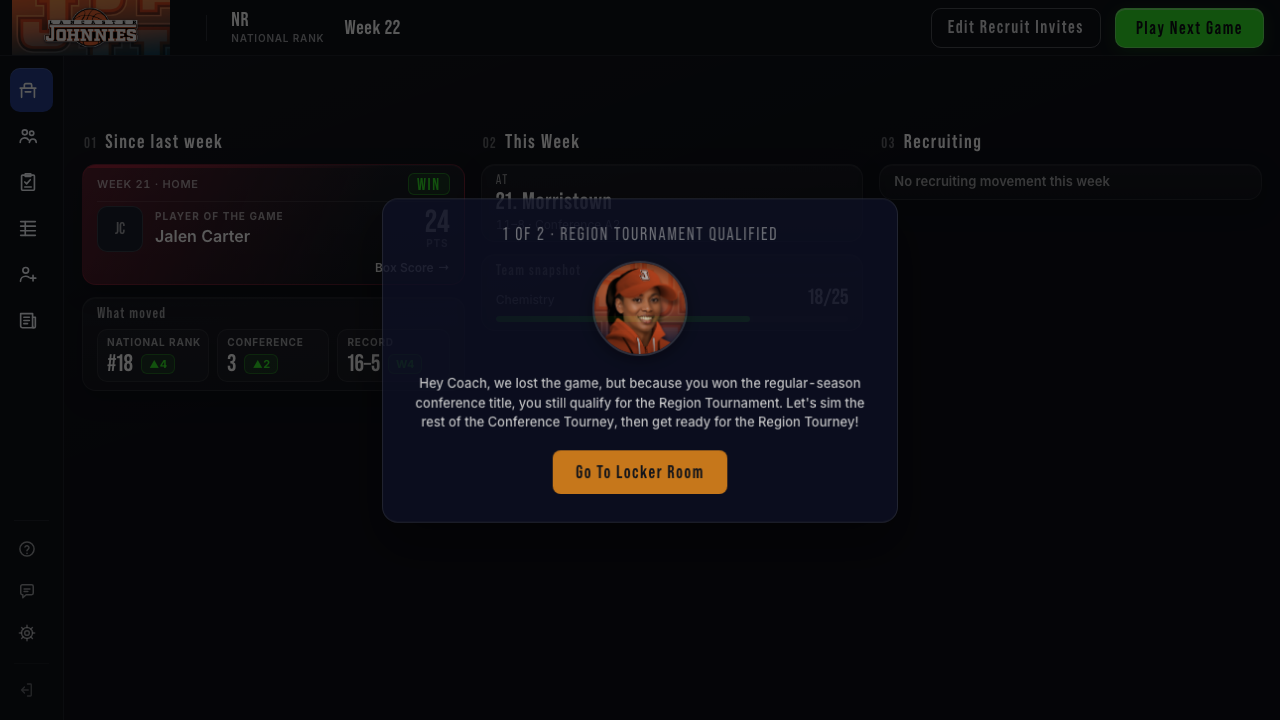
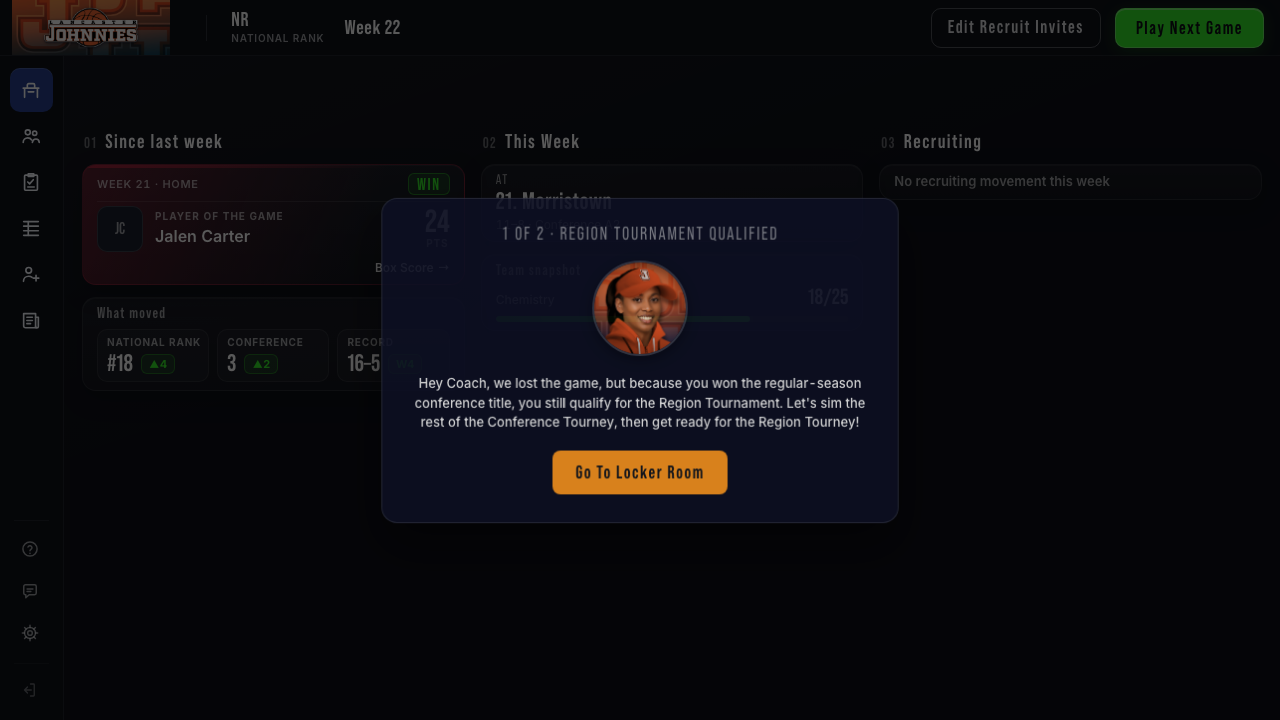
Stack weekly Office news as labeled rows and wait for the cut modal to finish fading in.
The weekly card no longer repeats This Week; each row is a full-width link. The cut screenshot is taken after the modal is fully opaque and on top.

diff --git a/tests/e2e/moment-queue.spec.js b/tests/e2e/moment-queue.spec.js
@@ -251,10 +251,33 @@ test('the weekly card shows a recruit visit and a bracket update', async ({ page
   await expect(card.getByText('Ellis Clemons is visiting this week.')).toBeVisible();
   await expect(card.getByText('Tournament update')).toBeVisible();
   await expect(card.getByText('The tournament bracket moved this week.')).toBeVisible();
-  await expect(card.locator('a.sn-row[href*="recruiting.html"]')).toHaveCount(1);
-  await expect(card.locator('a.sn-row[href*="tab=tournament-view"]')).toHaveCount(1);
+  await expect(card.locator('a.ow-row[href*="recruiting.html"]')).toHaveCount(1);
+  await expect(card.locator('a.ow-row[href*="tab=tournament-view"]')).toHaveCount(1);
+  await expect(card.locator('.card-h')).toHaveCount(0);
   await page.screenshot({ path: path.join(SHOTS, 'office-weekly-card.png') });
 });
+
+async function assertCutModalOnTop(page) {
+  await page.waitForFunction(() => {
+    const box = document.querySelector('.fcc-cut-required-modal .gob-modal-box');
+    return !!(box && parseFloat(getComputedStyle(box).opacity) === 1);
+  }, null, { timeout: 5000 });
+  const hits = await page.evaluate(() => {
+    function insideModal(el) {
+      const modal = document.querySelector('.fcc-cut-required-modal');
+      if (!el || !modal) return false;
+      const r = el.getBoundingClientRect();
+      const hit = document.elementFromPoint(r.left + r.width / 2, r.top + r.height / 2);
+      return !!(hit && modal.contains(hit));
+    }
+    return {
+      title: insideModal(document.getElementById('fcc-cut-required-title')),
+      button: insideModal(document.getElementById('fcc-cut-required-close')),
+    };
+  });
+  expect(hits.title, 'title centre should hit the cut modal').toBe(true);
+  expect(hits.button, 'button centre should hit the cut modal').toBe(true);
+}
 
 test('cut modal opens once after the pop-up closes', async ({ page }) => {
   await page.setViewportSize({ width: 1280, height: 720 });
@@ -264,6 +287,7 @@ test('cut modal opens once after the pop-up closes', async ({ page }) => {
   await dismissSammy(page);
   await expect(page.locator('.fcc-cut-required-modal.is-visible')).toHaveCount(1);
   await expect(page.locator('.sammy-modal-backdrop.open')).toHaveCount(0);
+  await assertCutModalOnTop(page);
   await page.screenshot({ path: path.join(SHOTS, 'cut-after-popup.png') });
   await page.waitForTimeout(8500);
   await expect(page.locator('.fcc-cut-required-modal')).toHaveCount(1);

diff --git a/FrontEnd/static/js/shared/officeHome.js b/FrontEnd/static/js/shared/officeHome.js
@@ -839,22 +839,23 @@
   function weeklyCard(items, index) {
     if (!Array.isArray(items) || !items.length) return null;
     var node = card('office-weekly', index);
-    var head = el('div', 'card-h');
-    head.appendChild(el('h3', '', 'This week'));
-    node.appendChild(head);
     items.forEach(function (item) {
       if (!item) return;
       var url = weeklyHref(item);
-      var row = el(url ? 'a' : 'div', 'sn-row');
+      var row = el(url ? 'a' : 'div', 'ow-row');
       if (url) {
         row.href = url;
         bindGo(row, url);
       }
-      if (present(item.title)) row.appendChild(el('span', 'sn-l', item.title));
-      if (present(item.line)) row.appendChild(el('span', '', item.line));
-      if (row.childNodes.length) node.appendChild(row);
+      var body = el('span', 'ow-b');
+      if (present(item.title)) body.appendChild(el('span', 'ow-k', item.title));
+      if (present(item.line)) body.appendChild(el('span', 'ow-v', item.line));
+      if (!body.childNodes.length) return;
+      row.appendChild(body);
+      row.appendChild(el('span', 'ow-go', '→'));
+      node.appendChild(row);
     });
-    return node.childNodes.length > 1 ? node : null;
+    return node.childNodes.length ? node : null;
   }
 
   function nextCard(game, digest, index) {

diff --git a/FrontEnd/static/css/office-home.css b/FrontEnd/static/css/office-home.css
@@ -9,6 +9,47 @@
   padding: 0;
 }
 .gob .office a { color: inherit; text-decoration: none; }
+.gob .office-weekly {
+  display: flex;
+  flex-direction: column;
+  gap: 0;
+}
+.gob .office-weekly .ow-row {
+  display: flex;
+  align-items: center;
+  gap: var(--dsp-10);
+  width: 100%;
+  padding: var(--dsp-8) var(--space-2);
+  border-top: 1px solid var(--line);
+  text-align: left;
+}
+.gob .office-weekly .ow-row:first-child { border-top: 0; }
+.gob .office-weekly .ow-row:hover { background: var(--white-5); }
+.gob .office-weekly .ow-b {
+  display: flex;
+  flex-direction: column;
+  align-items: flex-start;
+  gap: var(--space-2);
+  min-width: 0;
+  flex: 1 1 auto;
+}
+.gob .office-weekly .ow-k {
+  font-size: var(--fs-10);
+  font-weight: var(--fw-bold);
+  letter-spacing: var(--tracking-8);
+  text-transform: uppercase;
+  color: var(--text-60);
+  white-space: nowrap;
+}
+.gob .office-weekly .ow-v {
+  font-size: var(--fs-13);
+  color: var(--text-87);
+}
+.gob .office-weekly .ow-go {
+  flex: none;
+  color: var(--text-38);
+  font-size: var(--fs-12);
+}
 .gob .office .wr-1 { min-width: 0; }
 .gob .office .nx-m { min-width: 0; flex: 1 1 auto; }
 .gob .office .nx-m > div { min-width: 0; flex: 1 1 auto; }

diff --git a/reports/moment-queue-2026-09-28.md b/reports/moment-queue-2026-09-28.md
@@ -120,7 +120,7 @@ Server sets `href` on each WEEKLY item:
 - `bracket_update` → `/franchise-command-center.html?tab=tournament-view`
 - `recruit_visit` → `/recruiting.html`
 
-The Office row is an `<a class="sn-row">` with that href (franchise/team ids appended from the current URL). Existing Office link style (`color: inherit`). Text unchanged.
+The Office row is an `<a class="ow-row">` with that href (franchise/team ids appended from the current URL). Existing Office link style (`color: inherit`). Label is a small uppercase line above the sentence; a → sits on the right.
 
 ### Weekly-card lifetime (eligibility window; no browser seen-mark)
 
@@ -133,20 +133,22 @@ WEEKLY items no longer go through a modal, so they do not PATCH seen. The card l
 
 No extra server-flag change: both builders are already week-keyed. The old modal seen-stamp only hid the card mid-week after a pop-up; the week window already ended it.
 
+### Cut modal on top
+
+The earlier shot caught `fcc-modal-enter` (box opacity 0→1 over 200ms), so Office cards showed through the text. The spec now waits until the box’s computed opacity is 1, then `elementFromPoint` at the title centre and the button centre must land inside `.fcc-cut-required-modal`. That passed without a stacking-CSS change. Screenshot is taken after the opacity wait.
+
+### Weekly card copy/layout
+
+Dropped the inner “This week” header. Each row is label over line, left-aligned, full width (`.ow-row`, not `.sn-row`). Label is small uppercase, no wrap. Whole row is the link; hover uses the existing Office row wash (`--white-5`). A muted → sits on the right, same idea as Box Score →. CSS scoped to `.office-weekly`.
+
 ### Self-check (1280)
 
-- `reports/moment-queue/office-weekly-card.png` — Office, three columns. Top of This Week is the existing dark card titled “This week” with two rows: Tournament update / “The tournament bracket moved this week.” and Recruit visit / “Ellis Clemons is visiting this week.” Neutral text, no gold. Next game and Team snapshot sit under it. Advance is the only green button (Play Next Game).
-- `reports/moment-queue/popup-1-of-2.png` — One Sammy modal over the Office. Eyebrow reads “1 OF 2 · REGION TOURNAMENT QUALIFIED”. Body is the conference-title qualification copy. One orange “Go To Locker Room” (existing Sammy chrome). Nothing else stacked.
-- `reports/moment-queue/cut-after-popup.png` — Cut modal only: “Trim Your Roster to Size”, copy about assigning 2 players, green “Assign Practice Squad”. No Sammy / Big News overlay behind it. Advance label is also Assign Practice Squad (existing cut mode).
+- `reports/moment-queue/office-weekly-card.png` — Column 02 is titled This Week only (no second header on the card). Top card has two stacked rows: **TOURNAMENT UPDATE** over “The tournament bracket moved this week.” with → on the right; **RECRUIT VISIT** over “Ellis Clemons is visiting this week.” with → on the right. Next game (AT 21. Morristown) and Team snapshot sit **below** that card, not over it. No overlapping text. Neutral chrome, no gold. Green only on Advance (Play Next Game).
+- `reports/moment-queue/popup-1-of-2.png` — One Sammy modal over the Office. Eyebrow reads “1 OF 2 · REGION TOURNAMENT QUALIFIED”. Nothing else stacked.
+- `reports/moment-queue/cut-after-popup.png` — The cut modal is **on top** and fully opaque. Title “Trim Your Roster to Size”, body about assigning 2 players, and the green “Assign Practice Squad” button are all readable. Office cards (result, What moved, next game) sit **behind** the dimmed page; none of their text is drawn over the modal title or button. No Sammy overlay. Advance label is Assign Practice Squad.
 
-### Gates (fix pass)
+### Gates (small fix pass)
 
-Related tests: `tests/test_moment_queue.py` + sibling modal tests, 25 passed; `tests/e2e/moment-queue.spec.js` 3 passed.
-
-`pytest --ignore=tests/e2e`: **3890 passed**, 0 failed, 14 skipped, 109 xfailed, 1 xpassed.
-
-Full Playwright (`env -u CI`, port 8088, workers=1): **547 passed, 3 skipped** (8.0m).
-
-Servers stopped; regenerated tracked `reports/` images restored. New shots kept under `reports/moment-queue/`.
+`tests/test_moment_queue.py`: 8 passed. `tests/e2e/moment-queue.spec.js` + `tests/e2e/office-frontend.spec.js`: 13 passed, 1 skipped. Did not re-run the full suites (no cut-modal stacking CSS; changes stayed in officeHome, `.office-weekly` CSS, the spec, and the report).
 
 STATUS: COMPLETE
